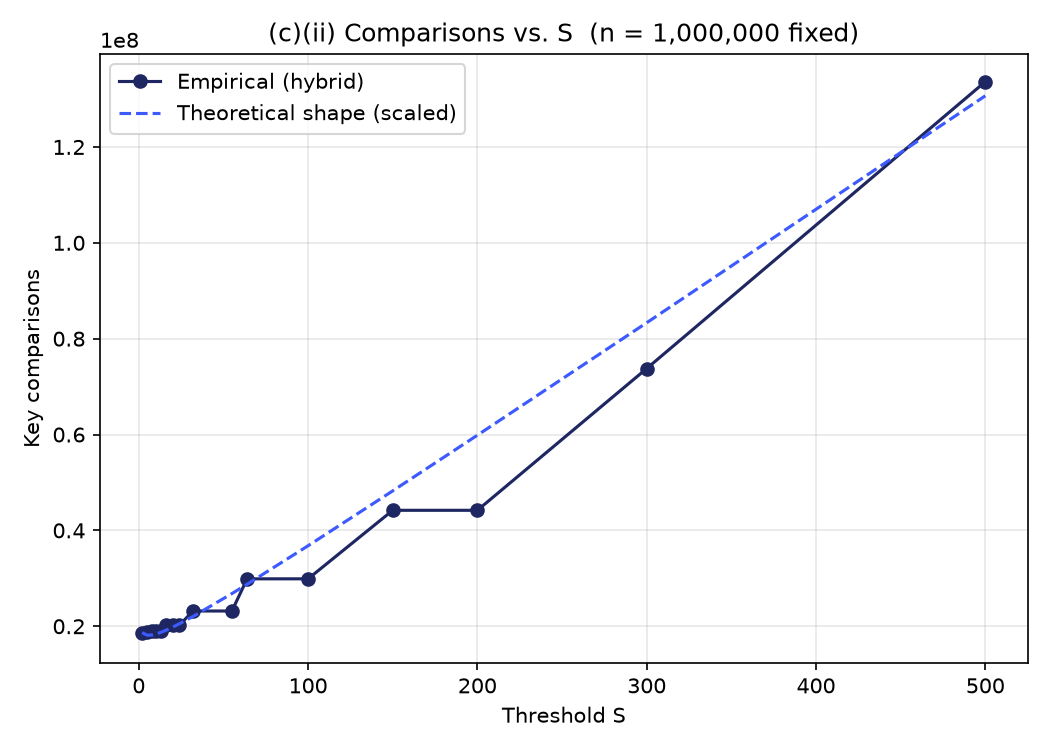
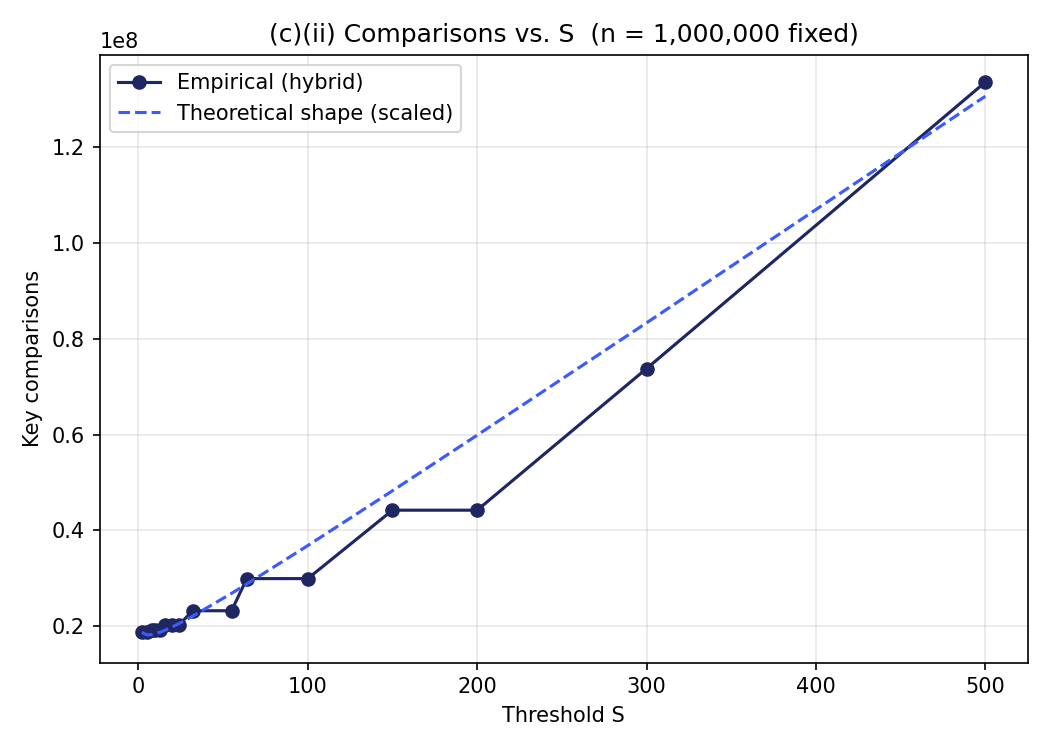
feat: enhance sorting algorithms and add unit tests for validation

diff --git a/Lab1/exp.py b/Lab1/exp.py
@@ -8,19 +8,20 @@ format generate_plots.py expects: part, n, S, comparisons, time_seconds.
 Why it's built this way (to reduce noise in the timing results):
 - For a given n, we generate ONE random array and reuse a copy of it
   for every S we test. This means S is the only thing changing between
-  runs -- we're notgi accidentally comparing different random data.
-- Each (n, S) timing is repeated several times. We report both the
-  MEAN and the MINIMUM time. The minimum is useful because system
-  noise (OS scheduling, background processes) can only ever slow a
-  run down, never speed it up -- so the minimum across repeats is a
-  good estimate of the "true" cost with noise stripped out.
+  runs -- we're not accidentally comparing different random data.
+- Each (n, S) timing is repeated several times where practical. We
+  report both the mean and the minimum observed CPU time. The minimum
+  is useful as a best-observed result, while the mean retains run-to-run
+  variation.
 - Garbage collection is switched off during each timed run, so a GC
   pause doesn't get incorrectly counted as part of the algorithm's time.
 """
 
 import csv
 import gc
+import random
 import time
+from pathlib import Path
 from sorting_algo import hybrid_sort, original_merge_sort, generate_random_array
 
 
@@ -36,13 +37,18 @@ def time_one_hybrid_run(arr, S):
     counter = [0]
     n = len(data)
 
-    gc.disable()
-    start = time.process_time()
-    hybrid_sort(data, 0, n - 1, S, counter)
-    elapsed = time.process_time() - start
-    gc.enable()
+    gc_was_enabled = gc.isenabled()
+    if gc_was_enabled:
+        gc.disable()
+    try:
+        start = time.process_time()
+        hybrid_sort(data, 0, n - 1, S, counter)
+        elapsed = time.process_time() - start
+    finally:
+        if gc_was_enabled:
+            gc.enable()
 
-    assert data == sorted(arr), "hybrid_sort produced incorrect output!"
+    assert is_sorted(data), "hybrid_sort produced incorrect output!"
     return counter[0], elapsed
 
 
@@ -55,13 +61,18 @@ def time_one_original_run(arr):
     counter = [0]
     n = len(data)
 
-    gc.disable()
-    start = time.process_time()
-    original_merge_sort(data, 0, n - 1, counter)
-    elapsed = time.process_time() - start
-    gc.enable()
+    gc_was_enabled = gc.isenabled()
+    if gc_was_enabled:
+        gc.disable()
+    try:
+        start = time.process_time()
+        original_merge_sort(data, 0, n - 1, counter)
+        elapsed = time.process_time() - start
+    finally:
+        if gc_was_enabled:
+            gc.enable()
 
-    assert data == sorted(arr), "original_merge_sort produced incorrect output!"
+    assert is_sorted(data), "original_merge_sort produced incorrect output!"
     return counter[0], elapsed
 
 
@@ -80,6 +91,12 @@ def repeated_hybrid(arr, S, repeats):
     return comparisons, sum(times) / len(times), min(times)
 
 
+def is_sorted(arr):
+    return all(arr[i] <= arr[i + 1] for i in range(len(arr) - 1))
+
+
+RANDOM_SEED = 42
+MAX_VALUE = 1_000_000
 S_FIXED = 10          # threshold used for part (c)(i)
 N_FIXED = 1_000_000   # size used for part (c)(ii)
 
@@ -99,19 +116,21 @@ C3_CONFIG = [
     (10000000, [2, 5, 8, 10, 13, 16, 20, 24, 32, 55, 64], 2),
 ]
 
-OUTPUT_FILE = "results.csv"
+LAB_DIR = Path(__file__).resolve().parent
+OUTPUT_FILE = LAB_DIR / "results.csv"
 
 
 # ---------------------------------------------------------
 # Main experiment
 # ---------------------------------------------------------
 def main():
+    random.seed(RANDOM_SEED)
     rows = []
 
     # ----- (c)(i): comparisons vs n, S fixed -----
     print("Part (c)(i): comparisons vs n ...")
     for n in N_VALUES_C1:
-        arr = generate_random_array(n)
+        arr = generate_random_array(n, MAX_VALUE)
         comparisons, mean_t, min_t = repeated_hybrid(arr, S_FIXED, repeats=1)
         rows.append({"part": "c1", "n": n, "S": S_FIXED,
                      "comparisons": comparisons,
@@ -120,7 +139,7 @@ def main():
 
     # ----- (c)(ii): comparisons vs S, n fixed -----
     print("Part (c)(ii): comparisons vs S ...")
-    arr_fixed_n = generate_random_array(N_FIXED)   # SAME array for every S
+    arr_fixed_n = generate_random_array(N_FIXED, MAX_VALUE)   # SAME array for every S
     for S in S_VALUES_C2:
         comparisons, mean_t, min_t = repeated_hybrid(arr_fixed_n, S, repeats=1)
         rows.append({"part": "c2", "n": N_FIXED, "S": S,
@@ -131,7 +150,7 @@ def main():
     # ----- (c)(iii): CPU time vs S, per size, with repeats -----
     print("Part (c)(iii): optimal S per size ...")
     for n, S_list, repeats in C3_CONFIG:
-        arr = generate_random_array(n)   # SAME array for every S at this n
+        arr = generate_random_array(n, MAX_VALUE)   # SAME array for every S at this n
         for S in S_list:
             comparisons, mean_t, min_t = repeated_hybrid(arr, S, repeats=repeats)
             rows.append({"part": "c3", "n": n, "S": S,

diff --git a/Lab1/original_vs_hybrid.py b/Lab1/original_vs_hybrid.py
@@ -1,24 +1,23 @@
 import random
-import sys
 import gc
 import time
 import csv
+from pathlib import Path
 
 from sorting_algo import generate_random_array, hybrid_sort, original_merge_sort
-
-sys.setrecursionlimit(2000000)
 
 RANDOM_SEED = 42
 N_VALUE = 10000000
 REPEATS = 3
-RESULTS_CSV = "results.csv"        # part (c) results, read to find optimal S
-OUTPUT_CSV = "results_partd.csv"
+LAB_DIR = Path(__file__).resolve().parent
+RESULTS_CSV = LAB_DIR / "results.csv"        # part (c) results, read to find optimal S
+OUTPUT_CSV = LAB_DIR / "results_partd.csv"
 
 
-def determine_optimal_S(csv_path=RESULTS_CSV, n_target=N_VALUE, metric="time_seconds"):
+def determine_optimal_S(csv_path=RESULTS_CSV, n_target=N_VALUE, metric="time_seconds_min"):
     """
     Reads the (c)(iii) grid-search rows from results.csv and returns the S
-    value that minimized `metric` (time_seconds by default) at n_target.
+    value that minimized `metric` (best observed CPU time by default) at n_target.
     Falls back to the closest tested n if n_target itself wasn't tested,
     and raises a clear error if there's no c3 data at all.
     """
@@ -45,7 +44,7 @@ def determine_optimal_S(csv_path=RESULTS_CSV, n_target=N_VALUE, metric="time_sec
     best_S = int(best_row["S"])
 
     print(f"[optimal S] at n={chosen_n:,}, S={best_S} minimizes {metric} "
-          f"({float(best_row[metric]):,.0f})")
+          f"({float(best_row[metric]):.4f}s)")
     return best_S
 
 
@@ -56,11 +55,16 @@ def is_sorted(arr):
 def time_hybrid_once(data, S):
     arr = data.copy()
     counter = [0]
-    gc.disable()
-    start = time.process_time()
-    hybrid_sort(arr, 0, len(arr) - 1, S, counter)
-    elapsed = time.process_time() - start
-    gc.enable()
+    gc_was_enabled = gc.isenabled()
+    if gc_was_enabled:
+        gc.disable()
+    try:
+        start = time.process_time()
+        hybrid_sort(arr, 0, len(arr) - 1, S, counter)
+        elapsed = time.process_time() - start
+    finally:
+        if gc_was_enabled:
+            gc.enable()
     assert is_sorted(arr), f"Hybrid sort failed to sort n={len(data)}"
     return counter[0], elapsed
 
@@ -68,18 +72,22 @@ def time_hybrid_once(data, S):
 def time_original_merge_once(data):
     arr = data.copy()
     counter = [0]
-    gc.disable()
-    start = time.process_time()
-    original_merge_sort(arr, 0, len(arr) - 1, counter)
-    elapsed = time.process_time() - start
-    gc.enable()
+    gc_was_enabled = gc.isenabled()
+    if gc_was_enabled:
+        gc.disable()
+    try:
+        start = time.process_time()
+        original_merge_sort(arr, 0, len(arr) - 1, counter)
+        elapsed = time.process_time() - start
+    finally:
+        if gc_was_enabled:
+            gc.enable()
     assert is_sorted(arr), f"Original merge sort failed to sort n={len(data)}"
     return counter[0], elapsed
 
 
 def repeated(run_once, *args, repeats):
-    """Comparisons are deterministic; time is taken as the min across repeats
-    (system noise can only slow a run down, never speed it up)."""
+    """Return deterministic comparisons and the best observed CPU time."""
     times = []
     comparisons = None
     for _ in range(repeats):
@@ -103,11 +111,19 @@ def main():
 
     time_diff = m_time - h_time
     percentage_faster = (time_diff / m_time) * 100
-    comp_diff = m_comps - h_comps
+    comp_diff = h_comps - m_comps
+    comp_percentage = (comp_diff / m_comps) * 100
 
     print("\n" + "=" * 22 + " results " + "=" * 22)
-    print(f"Time Saved:        {time_diff:.4f}s ({percentage_faster:.2f}% faster)")
-    print(f"Comparisons Saved: {comp_diff:,}")
+    if time_diff >= 0:
+        print(f"Hybrid time saved: {time_diff:.4f}s ({percentage_faster:.2f}% faster)")
+    else:
+        print(f"Hybrid extra time: {-time_diff:.4f}s ({-percentage_faster:.2f}% slower)")
+
+    if comp_diff >= 0:
+        print(f"Hybrid comparisons: {comp_diff:,} more ({comp_percentage:.2f}% more)")
+    else:
+        print(f"Hybrid comparisons: {-comp_diff:,} fewer ({-comp_percentage:.2f}% fewer)")
 
     with open(OUTPUT_CSV, "w", newline="") as f:
         writer = csv.DictWriter(f, fieldnames=["algorithm", "n", "S", "comparisons", "time_seconds", "repeats"])

diff --git a/Lab1/generate_plots.py b/Lab1/generate_plots.py
@@ -1,8 +1,13 @@
 import pandas as pd
 import matplotlib.pyplot as plt
 import numpy as np
+from pathlib import Path
 
-df = pd.read_csv("results.csv")
+LAB_DIR = Path(__file__).resolve().parent
+PLOTS_DIR = LAB_DIR / "plots"
+PLOTS_DIR.mkdir(exist_ok=True)
+
+df = pd.read_csv(LAB_DIR / "results.csv")
 
 # ---- (c)(i): comparisons vs n, S fixed ----
 c1 = df[df["part"] == "c1"].sort_values("n")
@@ -25,8 +30,8 @@ ax1.set_title(f"(c)(i) Comparisons vs. n  (S = {S_fixed} fixed)")
 ax1.legend()
 ax1.grid(True, which="both", alpha=0.3)
 fig1.tight_layout()
-fig1.savefig("plots/comparisons_vs_n.png", dpi=150)
-print("Saved plots/comparisons_vs_n.png")
+fig1.savefig(PLOTS_DIR / "comparisons_vs_n.png", dpi=150)
+print(f"Saved {PLOTS_DIR / 'comparisons_vs_n.png'}")
 
 # ---- (c)(ii): comparisons vs S, n fixed ----
 c2 = df[df["part"] == "c2"].sort_values("S")
@@ -46,13 +51,12 @@ ax2.set_title(f"(c)(ii) Comparisons vs. S  (n = {n_fixed:,} fixed)")
 ax2.legend()
 ax2.grid(True, alpha=0.3)
 fig2.tight_layout()
-fig2.savefig("plots/comparisons_vs_S.png", dpi=150)
-print("Saved plots/comparisons_vs_S.png")
+fig2.savefig(PLOTS_DIR / "comparisons_vs_S.png", dpi=150)
+print(f"Saved {PLOTS_DIR / 'comparisons_vs_S.png'}")
 
 # ---- (c)(iii): CPU time vs S, one line per size ----
-# NOTE: plotting "time_seconds_min" (best-of-repeats) instead of the mean.
-# System noise (OS scheduling, GC, etc.) only ever slows a run down, so the
-# minimum across repeats is a cleaner estimate of the algorithm's true cost.
+# Plot the best observed time consistently with the metric used to choose S
+# for the Part (d) comparison. The mean remains available in results.csv.
 c3 = df[df["part"] == "c3"].copy()
 fig3, (ax3a, ax3b, ax3c) = plt.subplots(1, 3, figsize=(16, 5))
 
@@ -91,5 +95,5 @@ ax3c.grid(True, alpha=0.3)
 
 fig3.suptitle("Part (c)(iii): Optimal S Across Different Scale Regimes", fontsize=14, fontweight="bold")
 fig3.tight_layout()
-fig3.savefig("plots/optimal_s_split.png", dpi=150)
-print("Saved plots/optimal_s_split.png")
+fig3.savefig(PLOTS_DIR / "optimal_s_split.png", dpi=150)
+print(f"Saved {PLOTS_DIR / 'optimal_s_split.png'}")

diff --git a/Lab1/test_sorting_algo.py b/Lab1/test_sorting_algo.py
@@ -1,0 +1,47 @@
+import random
+import unittest
+
+from sorting_algo import generate_random_array, hybrid_sort, original_merge_sort
+
+
+class SortingAlgorithmTests(unittest.TestCase):
+    def test_algorithms_sort_representative_inputs(self):
+        cases = [
+            [],
+            [1],
+            [2, 1],
+            [1, 1, 1],
+            [3, 1, 2, 1],
+            list(range(20)),
+            list(range(19, -1, -1)),
+        ]
+
+        rng = random.Random(42)
+        cases.extend([[rng.randint(1, 20) for _ in range(50)] for _ in range(20)])
+
+        for case in cases:
+            expected = sorted(case)
+
+            for threshold in (1, 2, 5, 16):
+                data = case.copy()
+                hybrid_sort(data, 0, len(data) - 1, threshold, [0])
+                self.assertEqual(data, expected)
+
+            data = case.copy()
+            original_merge_sort(data, 0, len(data) - 1, [0])
+            self.assertEqual(data, expected)
+
+    def test_hybrid_sort_rejects_non_positive_threshold(self):
+        with self.assertRaises(ValueError):
+            hybrid_sort([1], 0, 0, 0, [0])
+        with self.assertRaises(ValueError):
+            hybrid_sort([1], 0, 0, 1.5, [0])
+
+    def test_generated_values_are_inclusive_and_in_range(self):
+        random.seed(42)
+        data = generate_random_array(1_000, max_value=10)
+        self.assertTrue(all(1 <= value <= 10 for value in data))
+
+
+if __name__ == "__main__":
+    unittest.main()

diff --git a/Lab1/sorting_algo.py b/Lab1/sorting_algo.py
@@ -36,13 +36,21 @@ def original_merge_sort(L, left, right, counter):
 
 # 4. hybrid sort (merge sort + insertion sort switch at threshold S)
 def hybrid_sort(L, left, right, S, counter):
+    """Sort L[left:right + 1] using a positive insertion-sort threshold S."""
+    if not isinstance(S, int) or S < 1:
+        raise ValueError("S must be a positive integer")
+
+    return _hybrid_sort(L, left, right, S, counter)
+
+
+def _hybrid_sort(L, left, right, S, counter):
     size = right - left + 1
     if size <= S:
         insertion_sort(L, left, right, counter)
     else:
         mid = (left + right) // 2
-        hybrid_sort(L, left, mid, S, counter)
-        hybrid_sort(L, mid + 1, right, S, counter)
+        _hybrid_sort(L, left, mid, S, counter)
+        _hybrid_sort(L, mid + 1, right, S, counter)
         merge(L, left, mid, right, counter)
     return L
 

diff --git a/README.md b/README.md
@@ -17,11 +17,27 @@ Code for our SC2001 (Algorithm Design and Analysis) lab projects.
 |   ├── exp.py                 # runs experiments for (c)(i), (c)(ii), (c)(iii) -> results.csv
 |   ├── original_vs_hybrid.py  # part (d): hybrid vs. original merge sort on n = 10,000,000 -> results_partd.csv
 |   ├── generate_plots.py      # reads results.csv, produces plots/*.png
+|   ├── test_sorting_algo.py   # correctness and edge-case tests
 |   ├── results.csv            # experiment results for part (c)
 |   ├── results_partd.csv      # experiment results for part (d)
 |   ├── plots/                 # generated comparison plots
 |   └── Slides.pptx
+├── requirements.txt
 └── README.md
 ```
 
-Run order: `python exp.py` (writes `results.csv`) -> `python generate_plots.py` (writes `plots/*.png`) -> `python original_vs_hybrid.py` (writes `results_partd.csv`).
+## Setup and Run
+
+From the repository root:
+
+```bash
+python3 -m pip install -r requirements.txt
+python3 -m unittest discover -s Lab1 -p 'test_*.py'
+python3 Lab1/exp.py
+python3 Lab1/generate_plots.py
+python3 Lab1/original_vs_hybrid.py
+```
+
+The experiment scripts use random seed `42` and generate integers in the
+inclusive range `[1, 1_000_000]`. The full experiment includes repeated sorts
+of 10 million integers, so it requires substantial time and memory.
